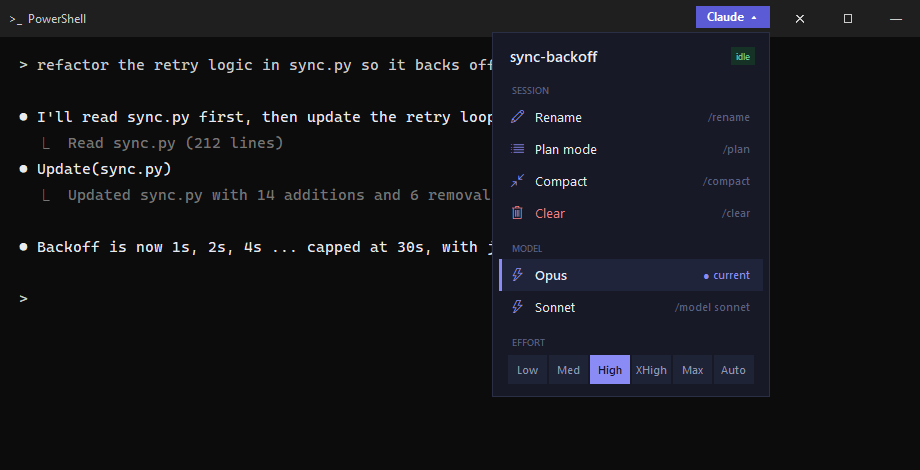
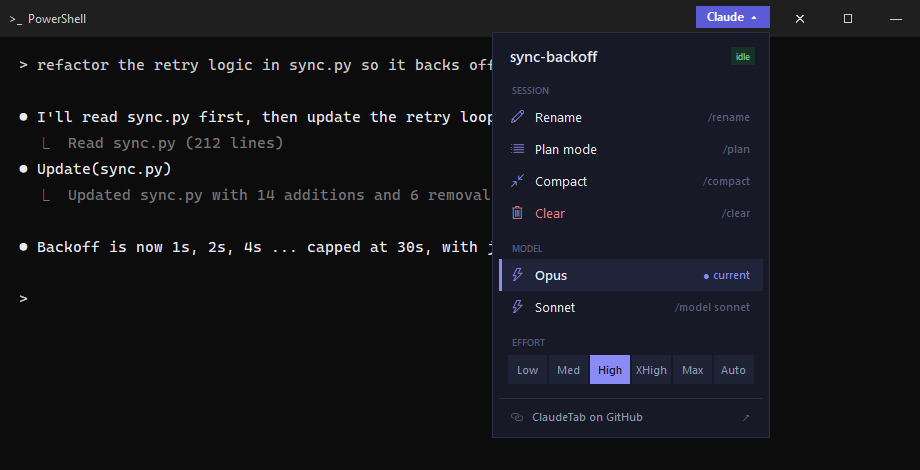
Add a GitHub link to the bottom of the menu (#7)

Changed region(s): [[0.5174, 0.834, 0.8522, 0.9532]]

diff --git a/tools/make_screenshots.py b/tools/make_screenshots.py
@@ -75,6 +75,7 @@ def shot(name, sessions, H=470):
         if n:
             tk.Frame(inner, bg=claude_tab.BORDER, height=1).pack(fill="x", pady=6)
         app.session_block(inner, sess)
+    app.footer(inner)
     panel.update_idletasks()
     px = hx + claude_tab.HANDLE_W - panel.winfo_reqwidth()
     py = hy + claude_tab.HANDLE_H + 4
@@ -109,4 +110,4 @@ if __name__ == "__main__":
     shot("menu-idle.png", [{"pid": 1, "name": "sync-backoff", "status": "idle", "model": "opus", "effort": "high"}])
     shot("menu-busy.png", [{"pid": 1, "name": "sync-backoff", "status": "busy", "model": "sonnet", "effort": "medium"}])
     shot("menu-multi.png", [{"pid": 1, "name": "sync-backoff", "status": "idle", "model": "opus", "effort": "high"},
-                            {"pid": 2, "name": "docs-cleanup", "status": "busy", "model": "sonnet", "effort": "medium"}], H=800)
+                            {"pid": 2, "name": "docs-cleanup", "status": "busy", "model": "sonnet", "effort": "medium"}], H=860)
